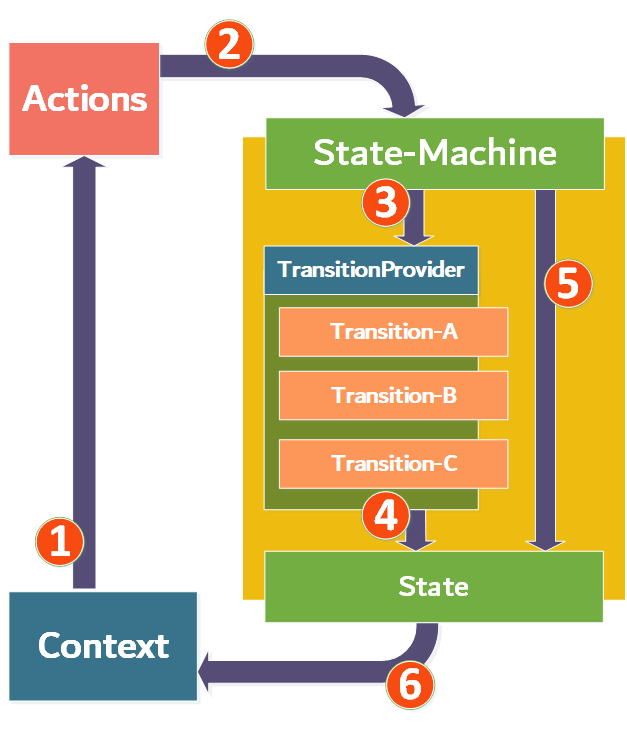
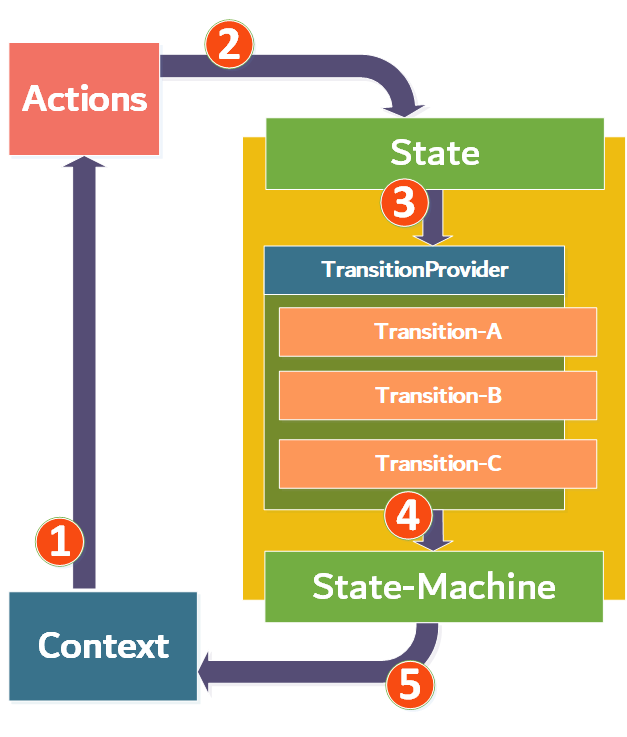
separated the action from the state itself, made the state-machine more state-machine-like, fixed the diagrams + README

Changed region(s): [[0.4242, 0.1872, 0.9697, 0.749], [0.4848, 0.7802, 0.9091, 0.8114], [0.6364, 0.905, 0.6667, 0.9674]]

diff --git a/St8-ment.Example.Console/Program.cs b/St8-ment.Example.Console/Program.cs
@@ -20,12 +20,11 @@ namespace St8_ment.Example.Console
                 .GetRequiredService<IStateMachine<ExampleContext>>();
 
             var context = new ExampleContext();
-            var state = stateMachine.Find<InitialState>(context);
-            context.SetState(state);
+            var state = stateMachine.Apply<InitialState>(context);
 
-            var is_valid_1 = await context.Apply(new StartAction(), CancellationToken.None);
-            var is_valid_2 = await context.Apply(new StopAction(), CancellationToken.None);
-            var is_valid_3 = await context.Apply(new StopAction(), CancellationToken.None);
+            var is_valid_1 = await context.Accept(new StartAction(), CancellationToken.None);
+            var is_valid_2 = await context.Accept(new StopAction(), CancellationToken.None);
+            var is_valid_3 = await context.Accept(new StopAction(), CancellationToken.None);
 
             Assert(is_valid_1);     // Should be successful
             Assert(is_valid_2);     // Should be successful

diff --git a/St8-ment/StateMachine.cs b/St8-ment/StateMachine.cs
@@ -12,14 +12,15 @@ namespace St8_ment
             this.registrations = registrations;
         }
 
-        public TState Find<TState>(TContext context) where TState : class, IState<TContext>
+        public bool Apply<TState>(TContext context) where TState : class, IState<TContext>
         {
             if (!this.registrations.TryGetValue(typeof(TState).GetHashCode(), out var value) || !(value?.Invoke(context) is TState state))
             {
-                return null;
+                return false;
             }
 
-            return state;
+            context.SetState(state);
+            return true;
         }
     }
 }

diff --git a/St8-ment.Example.Console/Transitions/StartTransition.cs b/St8-ment.Example.Console/Transitions/StartTransition.cs
@@ -9,7 +9,7 @@ namespace St8_ment.Example.Console
 
         protected override Task Transition(StateTransaction<StartAction, InitialState> transaction, IStateMachine<ExampleContext> stateMachine, CancellationToken cancellationToken)
         {
-            transaction.State.Context.SetState(stateMachine.Find<ProcessingState>(transaction.State.Context));
+            stateMachine.Apply<ProcessingState>(transaction.State.Context);
             return Task.CompletedTask;
         }
     }

diff --git a/St8-ment.Example.Console/Transitions/StopTransition.cs b/St8-ment.Example.Console/Transitions/StopTransition.cs
@@ -9,7 +9,7 @@ namespace St8_ment.Example.Console
 
         protected override Task Transition(StateTransaction<StopAction, ProcessingState> transaction, IStateMachine<ExampleContext> stateMachine, CancellationToken cancellationToken)
         {
-            transaction.State.Context.SetState(stateMachine.Find<DoneState>(transaction.State.Context));
+            stateMachine.Apply<DoneState>(transaction.State.Context);
             return Task.CompletedTask;
         }
     }

diff --git a/St8-ment/StateTransition.cs b/St8-ment/StateTransition.cs
@@ -4,8 +4,8 @@ using System.Threading.Tasks;
 namespace St8_ment
 {
     public abstract class StateTransition<TState, TContext, TAction> : IStateTransition<StateTransaction<TAction, TState>> 
-        where TAction : IAction<TState> 
-        where TState : class, IState<TContext>
+        where TAction : IAction
+        where TState : class, IState
         where TContext : IStateContext<TContext>
     {
         private readonly IStateMachine<TContext> stateMachine;

diff --git a/St8-ment.Example.Console/ExampleContext.cs b/St8-ment.Example.Console/ExampleContext.cs
@@ -7,7 +7,7 @@ namespace St8_ment.Example.Console
     {
         public IState<ExampleContext> State { get; private set; }
 
-        public Task<bool> Apply<TAction>(TAction action, CancellationToken cancellationToken) where TAction : IAction
+        public Task<bool> Accept<TAction>(TAction action, CancellationToken cancellationToken) where TAction : IAction
         {
             return State.Accept(action, cancellationToken);
         }

diff --git a/St8-ment.DependencyInjection/StateConfigurator.cs b/St8-ment.DependencyInjection/StateConfigurator.cs
@@ -17,7 +17,7 @@ namespace St8_ment.DependencyInjection
             this.actions = actions;
         }
 
-        public IActionConfiguration<TAction, TState> On<TAction>() where TAction : IAction<TState>
+        public IActionConfiguration<TAction, TState> On<TAction>() where TAction : IAction
         {
             return new ActionConfiguration<TAction, TState>(this.services, this.actions);
         }

diff --git a/St8-ment.DependencyInjection/ActionConfiguration.cs b/St8-ment.DependencyInjection/ActionConfiguration.cs
@@ -5,7 +5,7 @@ using Microsoft.Extensions.DependencyInjection;
 namespace St8_ment.DependencyInjection
 {
     public class ActionConfiguration<TAction, TState> : IActionConfiguration<TAction, TState> 
-        where TAction : IAction<TState>
+        where TAction : IAction
         where TState : class, IState
     {
         private readonly IServiceCollection services;

diff --git a/St8-ment/IStateContext.cs b/St8-ment/IStateContext.cs
@@ -7,6 +7,6 @@ namespace St8_ment
     {
         void SetState<TState>(TState state) where TState : class, IState<TContext>;
 
-        Task<bool> Apply<TAction>(TAction action, CancellationToken cancellationToken) where TAction : IAction;
+        Task<bool> Accept<TAction>(TAction action, CancellationToken cancellationToken) where TAction : IAction;
     }
 }

diff --git a/St8-ment.DependencyInjection/IActionConfiguration.cs b/St8-ment.DependencyInjection/IActionConfiguration.cs
@@ -1,7 +1,7 @@
 namespace St8_ment.DependencyInjection
 {
     public interface IActionConfiguration<TAction, TState> 
-        where TAction : IAction<TState>
+        where TAction : IAction
         where TState : class, IState
     {
         void Transition<TTransition>() where TTransition : class, IStateTransition<StateTransaction<TAction, TState>>;

diff --git a/St8-ment.DependencyInjection/IStateConfigurator.cs b/St8-ment.DependencyInjection/IStateConfigurator.cs
@@ -4,6 +4,6 @@
         where TState : class, IState<TContext>
         where TContext : IStateContext<TContext>
     {
-        IActionConfiguration<TAction, TState> On<TAction>() where TAction : IAction<TState>;
+        IActionConfiguration<TAction, TState> On<TAction>() where TAction : IAction;
     }
 }

diff --git a/St8-ment/IStateMachine.cs b/St8-ment/IStateMachine.cs
@@ -2,6 +2,6 @@
 {
     public interface IStateMachine<TContext> where TContext : IStateContext<TContext>
     {
-        TState Find<TState>(TContext context) where TState : class, IState<TContext>;
+        bool Apply<TState>(TContext context) where TState : class, IState<TContext>;
     }
 }
